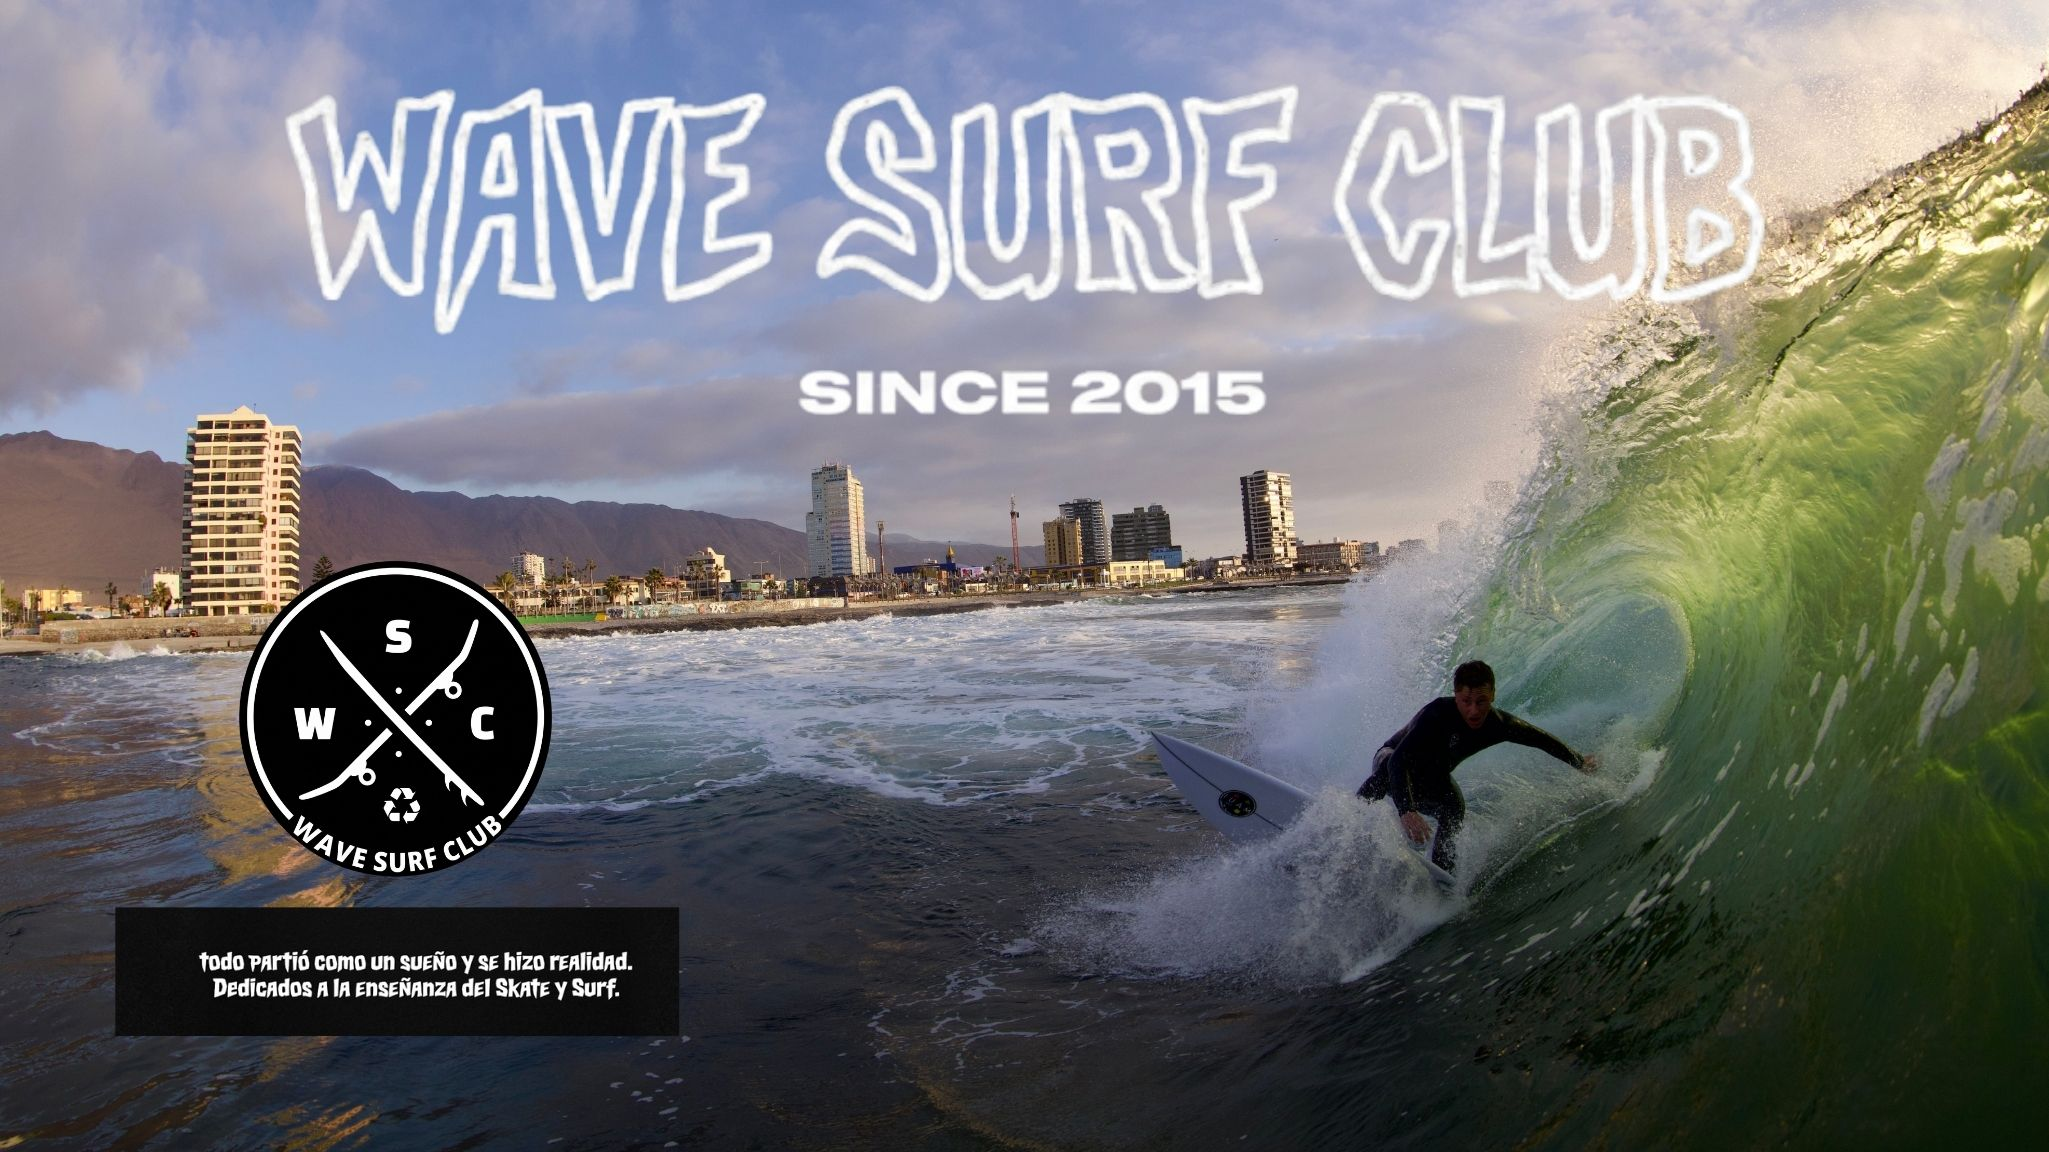
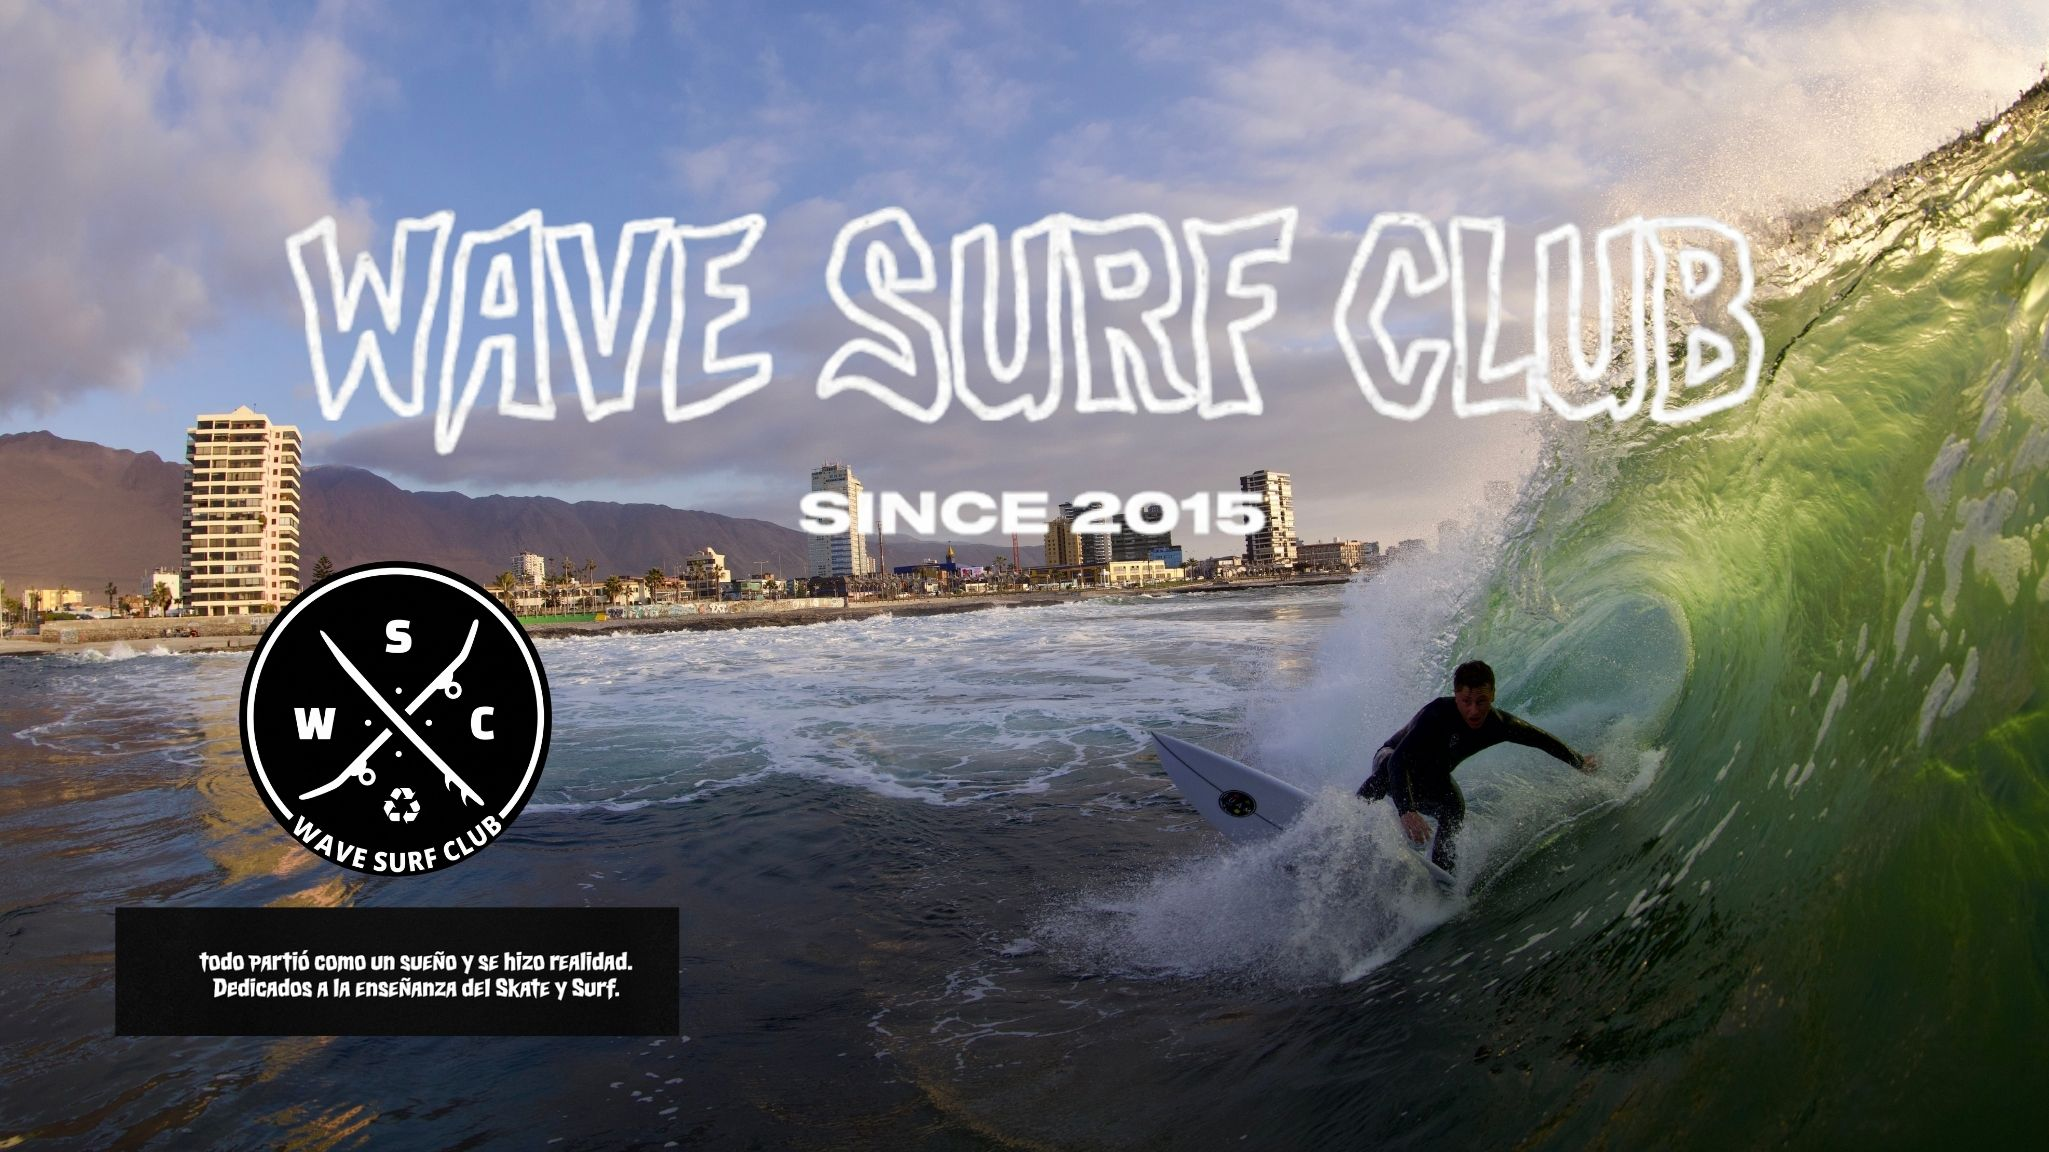
style: evitar que el menú oculte la parte superior de la portada

Changed region(s): [[0.1249, 0.0625, 0.8746, 0.4062], [0.3748, 0.4062, 0.6247, 0.4688]]

diff --git a/src/app/page.js b/src/app/page.js
@@ -348,6 +348,10 @@ export default function LandingPage() {
           text-align: center;
           overflow: hidden;
         }
+        #hero {
+          margin-top: 100px;
+          min-height: calc(100vh - 100px);
+        }
         .px-bg-wrapper {
           position: absolute;
           inset: 0;
